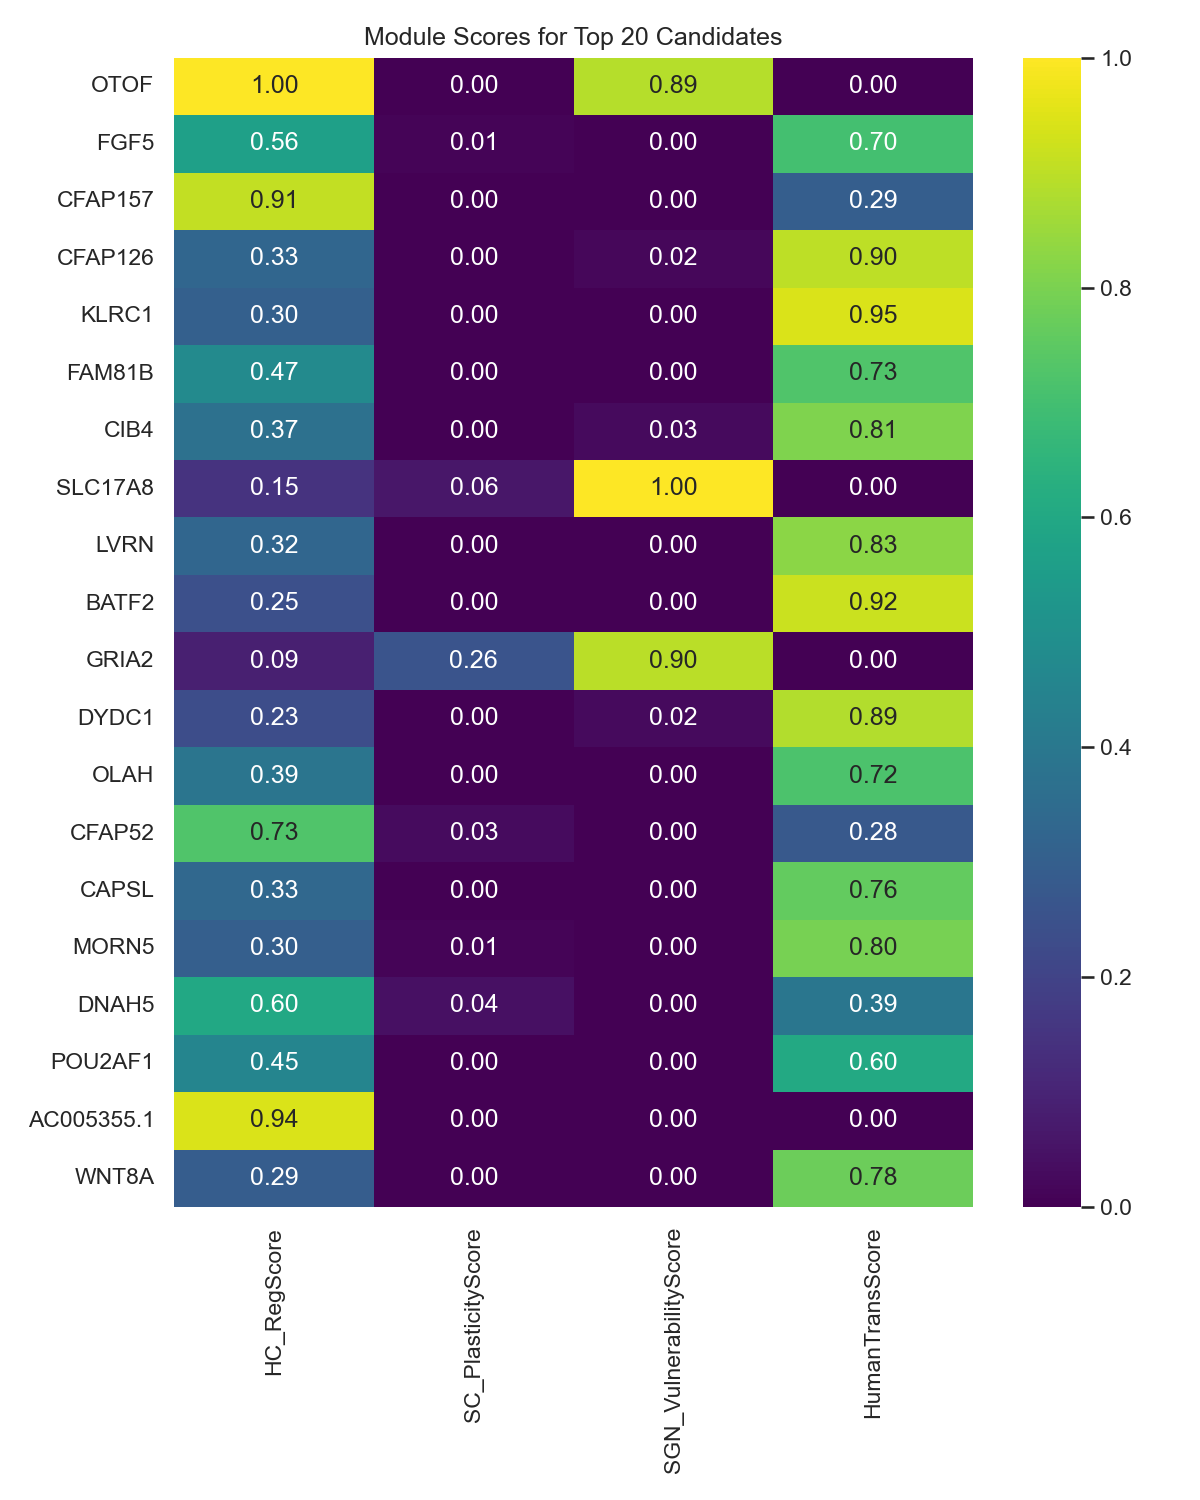
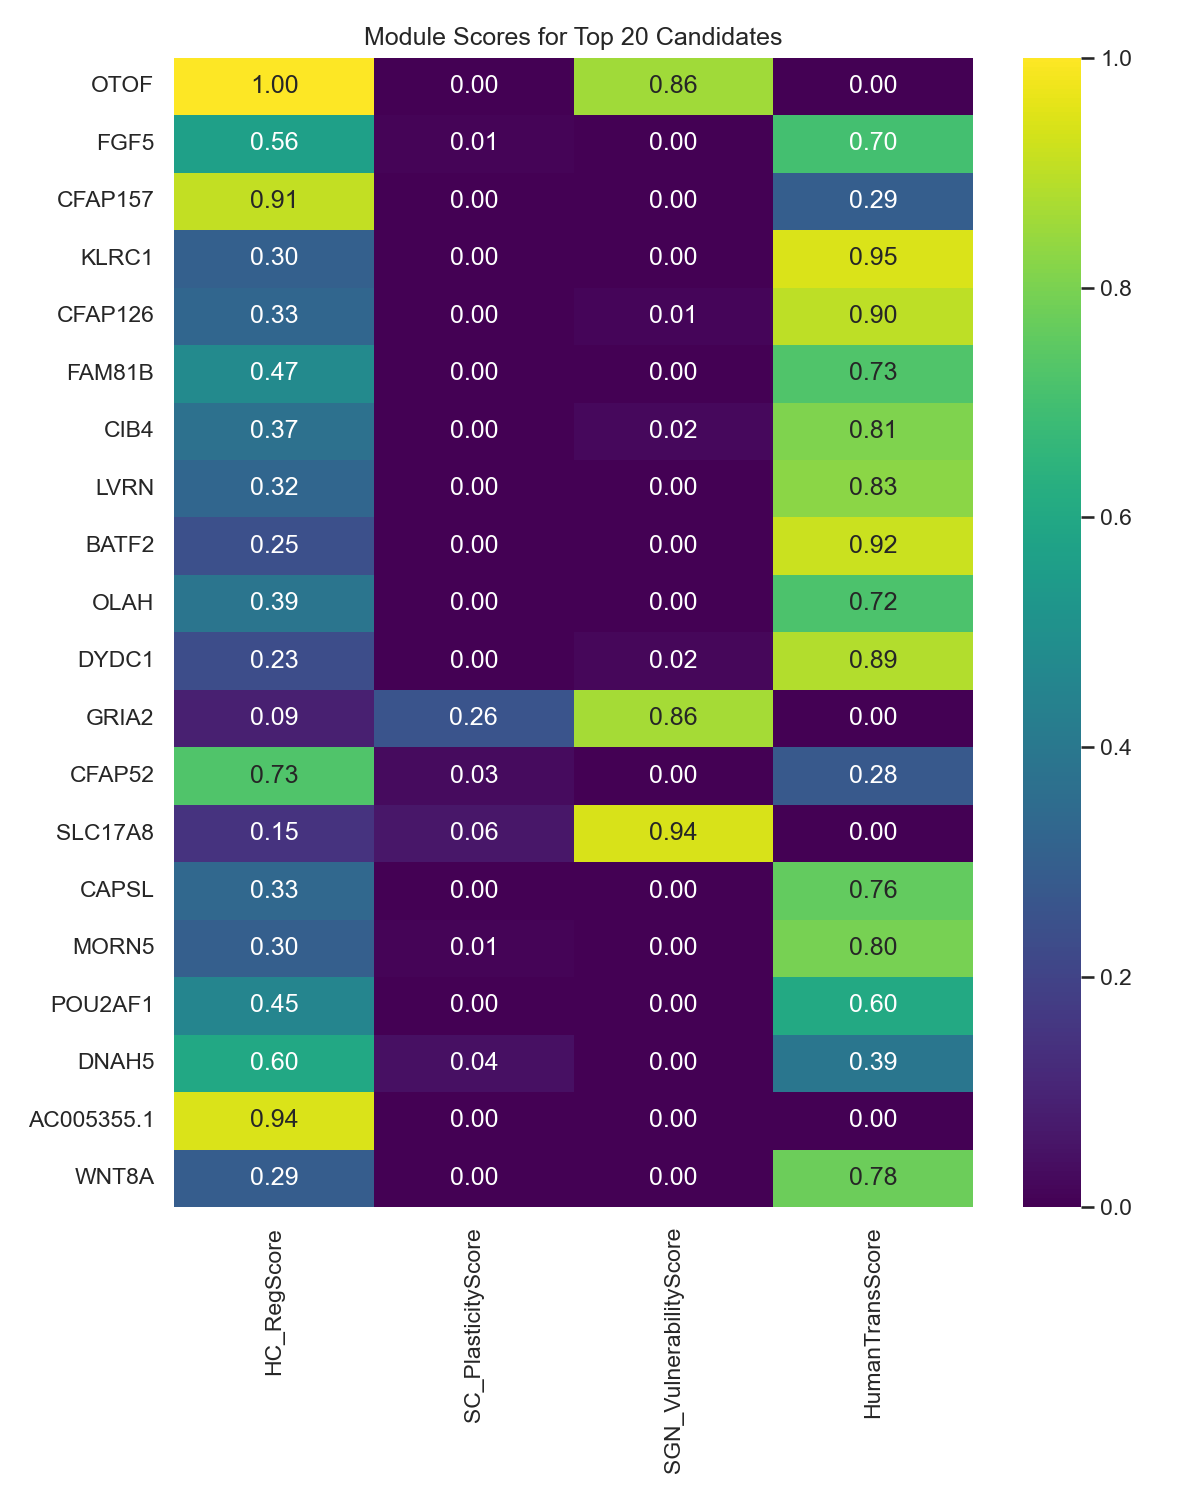
Integrate GSE165502 and GSE210216 into SGN Vulnerability Score

diff --git a/README.md b/README.md
@@ -15,6 +15,8 @@ The pipeline utilizes a comprehensive set of public datasets:
 *   **[GSE274279](https://www.ncbi.nlm.nih.gov/geo/query/acc.cgi?acc=GSE274279)**: Mouse cochlea and utricle aging snRNA-seq (Xia et al., 2025).
 *   **[GSE137299](https://www.ncbi.nlm.nih.gov/geo/query/acc.cgi?acc=GSE137299)**: Mouse developmental scRNA-seq (E14-P7).
 *   **[GSE165502](https://www.ncbi.nlm.nih.gov/geo/query/acc.cgi?acc=GSE165502)**: Mouse Spiral Ganglion Neuron (SGN) scRNA-seq.
+*   **[GSE210215](https://www.ncbi.nlm.nih.gov/geo/query/acc.cgi?acc=GSE210215)**: Runx1 cKO SGN atlas.
+*   **[GSE210216](https://www.ncbi.nlm.nih.gov/geo/query/acc.cgi?acc=GSE210216)**: Complementary Runx1 SGN study.
 
 ## Therapeutic Priority Score (TPS)
 The TPS is a composite metric derived from four key biological modules:
